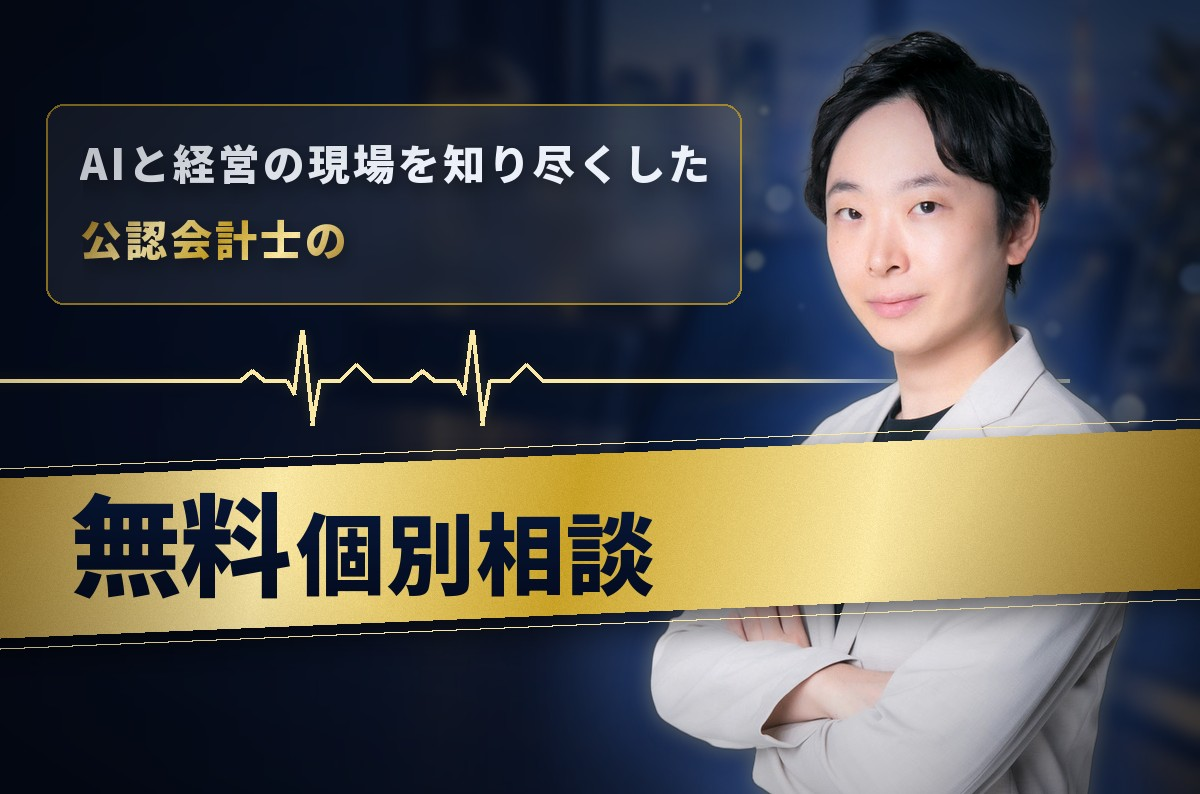
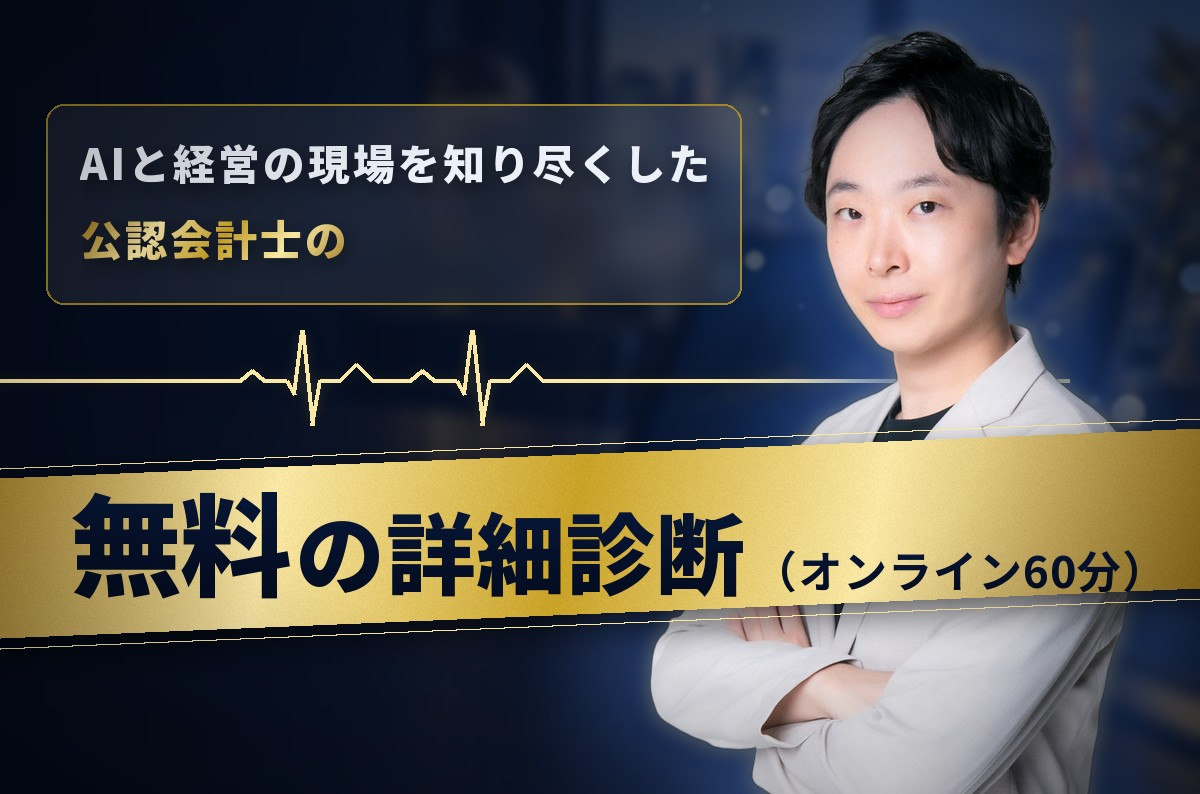
feat: 面談の見出しとカードを「無料の詳細診断（オンライン60分）」に変更

Changed region(s): [[0.2467, 0.6348, 0.4625, 0.7557], [0.6475, 0.6952, 0.9558, 0.7557], [0.4933, 0.6348, 0.6167, 0.7557]]

diff --git a/app.js b/app.js
@@ -524,8 +524,8 @@
   function rPrescription() {
     var a = S.a, r = S.result || computeNow();
     var route = C.decideRoute(a); S.route = route;
-    var el = h('<div><div class="hero-img"><img src="img/header_presc.jpg?v=63" alt="御社の診断結果"></div><p class="presc-lead">AIと経営の現場を知り尽くした公認会計士の</p><h2>無料相談（オンライン60分）</h2></div>');
-    el.appendChild(h('<img class="card-img" src="img/card_meeting.jpg?v=63" alt="AIと経営の現場を知り尽くした公認会計士の無料個別相談">'));
+    var el = h('<div><div class="hero-img"><img src="img/header_presc.jpg?v=63" alt="御社の診断結果"></div><p class="presc-lead">AIと経営の現場を知り尽くした公認会計士の</p><h2>無料の詳細診断（オンライン60分）</h2></div>');
+    el.appendChild(h('<img class="card-img" src="img/card_meeting.jpg?v=64" alt="AIと経営の現場を知り尽くした公認会計士の無料の詳細診断">'));
     var b1 = h('<button class="btn primary">詳細診断はこちら</button>');
     b1.onclick = function () { a.cta = 'book'; ga('diag_cta_book', { route: route }); go(0, 'S19'); };
     el.appendChild(b1);

diff --git a/index.html b/index.html
@@ -20,6 +20,6 @@
 <script src="https://static.line-scdn.net/liff/edge/2/sdk.js"></script>
 <script src="config.js?v=63"></script>
 <script src="calc.js?v=63"></script>
-<script src="app.js?v=64"></script>
+<script src="app.js?v=65"></script>
 </body>
 </html>
